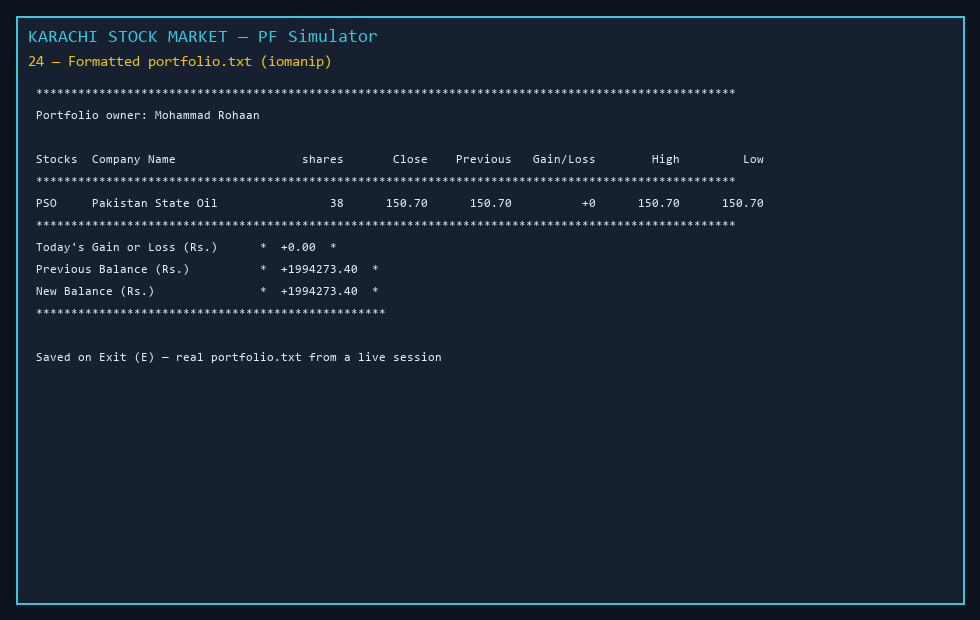
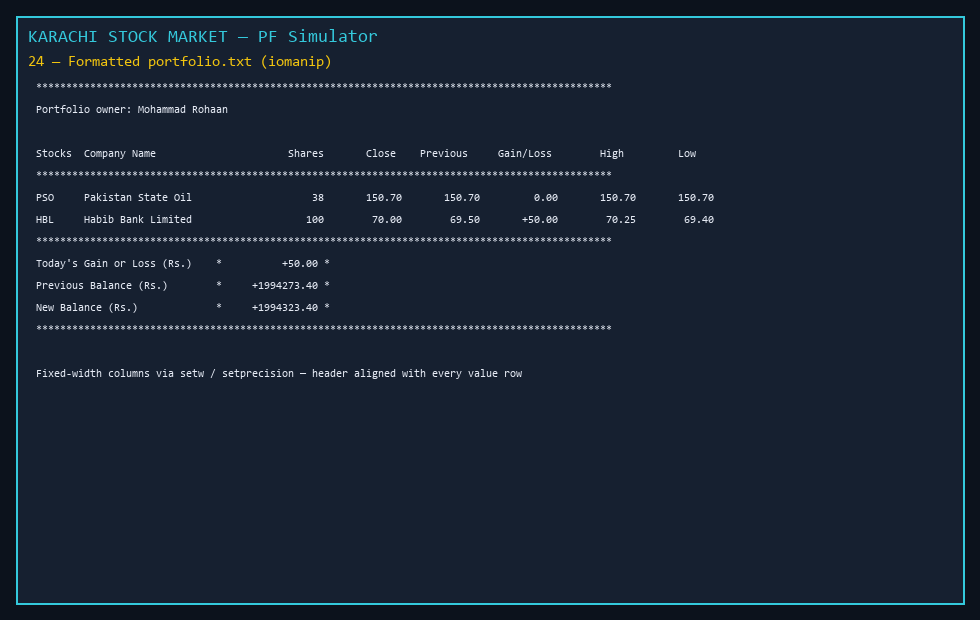
Fix portfolio.txt save alignment with fixed-width iomanip columns.

Changed region(s): [[0.0306, 0.2452, 0.7653, 0.6129], [0.0306, 0.1226, 0.7347, 0.2145]]

diff --git a/22i-2327_A_Project.cpp b/22i-2327_A_Project.cpp
@@ -17,6 +17,7 @@
 #include <fstream>
 #include <sstream>
 #include <iomanip>
+#include <string>
 #include <cstring>
 #include <ctime>
 #include <cstdlib>
@@ -30,6 +31,14 @@ using namespace std;
 #define SYM_LEN 16
 #define NAME_LEN 64
 #define OWNER_LEN 64
+
+/* Fixed column widths for portfolio.txt (header + every data row) */
+#define COL_SYM 8
+#define COL_NAME 32
+#define COL_SHARES 10
+#define COL_PRICE 12
+#define COL_GL 14
+#define PORTFOLIO_LINE_WIDTH (COL_SYM + COL_NAME + COL_SHARES + COL_PRICE * 4 + COL_GL)
 
 /* ---------- Console helpers (state passed in via HANDLE) ---------- */
 
@@ -137,10 +146,11 @@ bool saveCompanies(const char *filename,
     if (!fout.is_open())
         return false;
 
+    /* CSV required by brief — keep fields tidy: no extra spaces, price always 2 dp */
+    fout << fixed << setprecision(2);
     for (int i = 0; i < companyCount; i++)
     {
-        fout << symbols[i] << "," << names[i] << ","
-             << fixed << setprecision(2) << currPrice[i] << "\n";
+        fout << symbols[i] << "," << names[i] << "," << currPrice[i] << "\n";
     }
     fout.close();
     return true;
@@ -396,16 +406,14 @@ void drawPortfolio(HANDLE hConsole,
     cout << "Updates: Enter | Live Market: L | Add: A | Remove: R | Money: M | Withdraw: W\n";
     cout << "----------------------------------------------------------------------------------------\n";
 
-    cout << left
-         << setw(8) << "Stocks"
-         << setw(28) << "Company Name"
-         << right
-         << setw(8) << "Shares"
-         << setw(10) << "Current"
-         << setw(10) << "Previous"
-         << setw(12) << "Gain/Loss"
-         << setw(10) << "High"
-         << setw(10) << "Low" << endl;
+    cout << left << setw(COL_SYM) << "Stocks"
+         << left << setw(COL_NAME) << "Company Name"
+         << right << setw(COL_SHARES) << "Shares"
+         << right << setw(COL_PRICE) << "Current"
+         << right << setw(COL_PRICE) << "Previous"
+         << right << setw(COL_GL) << "Gain/Loss"
+         << right << setw(COL_PRICE) << "High"
+         << right << setw(COL_PRICE) << "Low" << endl;
     cout << "----------------------------------------------------------------------------------------\n";
 
     double todayGL = 0.0;
@@ -426,17 +434,17 @@ void drawPortfolio(HANDLE hConsole,
         double gl = (currPrice[idx] - prevPrice[idx]) * holdShares[h];
         todayGL += gl;
 
-        cout << left << setw(8) << symbols[idx]
-             << setw(28) << names[idx]
-             << right << setw(8) << holdShares[h]
+        cout << left << setw(COL_SYM) << symbols[idx]
+             << left << setw(COL_NAME) << names[idx]
+             << right << setw(COL_SHARES) << holdShares[h]
              << fixed << setprecision(2)
-             << setw(10) << currPrice[idx]
-             << setw(10) << prevPrice[idx]
+             << right << setw(COL_PRICE) << currPrice[idx]
+             << right << setw(COL_PRICE) << prevPrice[idx]
              << setw(1) << " ";
         printGainLossColored(hConsole, gl);
         cout << right << fixed << setprecision(2)
-             << setw(10) << highPrice[idx]
-             << setw(10) << lowPrice[idx] << endl;
+             << setw(COL_PRICE) << highPrice[idx]
+             << setw(COL_PRICE) << lowPrice[idx] << endl;
     }
 
     double previousBalance = balance;
@@ -677,6 +685,69 @@ void removeStock(char symbols[][SYM_LEN],
     _getch();
 }
 
+/* Write one money cell into a fixed-width field (optional leading +) */
+void writeAlignedMoney(ostream &out, double value, int width, bool showPlus)
+{
+    ostringstream cell;
+    cell << fixed << setprecision(2);
+    if (showPlus && value > 0.0001)
+        cell << "+";
+    cell << value;
+    out << right << setw(width) << cell.str();
+}
+
+void writePortfolioSeparator(ostream &out)
+{
+    out << setfill('*') << setw(PORTFOLIO_LINE_WIDTH) << "" << setfill(' ') << "\n";
+}
+
+void writePortfolioHeaderRow(ostream &out)
+{
+    out << left << setw(COL_SYM) << "Stocks"
+        << left << setw(COL_NAME) << "Company Name"
+        << right << setw(COL_SHARES) << "Shares"
+        << right << setw(COL_PRICE) << "Close"
+        << right << setw(COL_PRICE) << "Previous"
+        << right << setw(COL_GL) << "Gain/Loss"
+        << right << setw(COL_PRICE) << "High"
+        << right << setw(COL_PRICE) << "Low"
+        << "\n";
+}
+
+void writePortfolioDataRow(ostream &out,
+                           const char *symbol,
+                           const char *companyName,
+                           int shares,
+                           double closePrice,
+                           double previousPrice,
+                           double gainLoss,
+                           double high,
+                           double low)
+{
+    out << left << setw(COL_SYM) << symbol
+        << left << setw(COL_NAME) << companyName
+        << right << setw(COL_SHARES) << shares
+        << fixed << setprecision(2)
+        << right << setw(COL_PRICE) << closePrice
+        << right << setw(COL_PRICE) << previousPrice;
+    writeAlignedMoney(out, gainLoss, COL_GL, true);
+    out << fixed << setprecision(2)
+        << right << setw(COL_PRICE) << high
+        << right << setw(COL_PRICE) << low
+        << "\n";
+}
+
+void writePortfolioFooterLine(ostream &out, const char *label, double value)
+{
+    const int labelWidth = 30;
+    const int valueWidth = 16;
+    out << left << setw(labelWidth) << label
+        << " * "
+        << right;
+    writeAlignedMoney(out, value, valueWidth, true);
+    out << " *" << "\n";
+}
+
 bool savePortfolio(const char *filename,
                    const char *ownerName,
                    double balance,
@@ -701,19 +772,16 @@ bool savePortfolio(const char *filename,
     double previousBalance = balance;
     double newBalance = balance + todayGL;
 
-    fout << setfill('*') << setw(100) << "" << setfill(' ') << "\n";
+    writePortfolioSeparator(fout);
     fout << "Portfolio owner: " << ownerName << "\n\n";
-    fout << left
-         << setw(8) << "Stocks"
-         << setw(28) << "Company Name"
-         << right
-         << setw(8) << "shares"
-         << setw(12) << "Close"
-         << setw(12) << "Previous"
-         << setw(12) << "Gain/Loss"
-         << setw(12) << "High"
-         << setw(12) << "Low" << "\n";
-    fout << setfill('*') << setw(100) << "" << setfill(' ') << "\n";
+    writePortfolioHeaderRow(fout);
+    writePortfolioSeparator(fout);
+
+    if (holdCount == 0)
+    {
+        fout << left << setw(PORTFOLIO_LINE_WIDTH)
+             << "(No holdings in this session)" << "\n";
+    }
 
     for (int h = 0; h < holdCount; h++)
     {
@@ -721,36 +789,22 @@ bool savePortfolio(const char *filename,
         if (idx < 0)
             continue;
         double gl = (currPrice[idx] - prevPrice[idx]) * holdShares[h];
-
-        fout << left << setw(8) << symbols[idx]
-             << setw(28) << names[idx]
-             << right << setw(8) << holdShares[h]
-             << fixed << setprecision(2)
-             << setw(12) << currPrice[idx]
-             << setw(12) << prevPrice[idx];
-
-        fout << setw(12);
-        if (gl >= 0)
-            fout << ("+" + to_string((long long)llround(gl)));
-        else
-            fout << ((long long)llround(gl));
-
-        fout << fixed << setprecision(2)
-             << setw(12) << highPrice[idx]
-             << setw(12) << lowPrice[idx] << "\n";
+        writePortfolioDataRow(fout,
+                              symbols[idx],
+                              names[idx],
+                              holdShares[h],
+                              currPrice[idx],
+                              prevPrice[idx],
+                              gl,
+                              highPrice[idx],
+                              lowPrice[idx]);
     }
 
-    fout << setfill('*') << setw(100) << "" << setfill(' ') << "\n";
-    fout << left << setw(32) << "Today's Gain or Loss (Rs.)"
-         << "*\t" << showpos << fixed << setprecision(2) << todayGL
-         << noshowpos << "\t*" << "\n";
-    fout << left << setw(32) << "Previous Balance (Rs.)"
-         << "*\t" << showpos << fixed << setprecision(2) << previousBalance
-         << noshowpos << "\t*" << "\n";
-    fout << left << setw(32) << "New Balance (Rs.)"
-         << "*\t" << showpos << fixed << setprecision(2) << newBalance
-         << noshowpos << "\t*" << "\n";
-    fout << setfill('*') << setw(50) << "" << setfill(' ') << "\n";
+    writePortfolioSeparator(fout);
+    writePortfolioFooterLine(fout, "Today's Gain or Loss (Rs.)", todayGL);
+    writePortfolioFooterLine(fout, "Previous Balance (Rs.)", previousBalance);
+    writePortfolioFooterLine(fout, "New Balance (Rs.)", newBalance);
+    writePortfolioSeparator(fout);
 
     fout.close();
     return true;

diff --git a/docs/generate_screenshots.py b/docs/generate_screenshots.py
@@ -326,20 +326,21 @@ save(img, "23_name_entry.png")
 
 img, d = new_canvas("24 — Formatted portfolio.txt (iomanip)")
 draw_lines(d, [
-    "****************************************************************************************************",
+    "************************************************************************************************",
     "Portfolio owner: Mohammad Rohaan",
     "",
-    "Stocks  Company Name                  shares       Close    Previous   Gain/Loss        High         Low",
-    "****************************************************************************************************",
-    "PSO     Pakistan State Oil                38      150.70      150.70          +0      150.70      150.70",
-    "****************************************************************************************************",
-    "Today's Gain or Loss (Rs.)      *  +0.00  *",
-    "Previous Balance (Rs.)          *  +1994273.40  *",
-    "New Balance (Rs.)               *  +1994273.40  *",
-    "**************************************************",
+    "Stocks  Company Name                      Shares       Close    Previous     Gain/Loss        High         Low",
+    "************************************************************************************************",
+    "PSO     Pakistan State Oil                    38       150.70       150.70         0.00       150.70       150.70",
+    "HBL     Habib Bank Limited                   100        70.00        69.50       +50.00        70.25        69.40",
+    "************************************************************************************************",
+    "Today's Gain or Loss (Rs.)    *          +50.00 *",
+    "Previous Balance (Rs.)        *     +1994273.40 *",
+    "New Balance (Rs.)             *     +1994323.40 *",
+    "************************************************************************************************",
     "",
-    "Saved on Exit (E) — real portfolio.txt from a live session",
-], y=88, size=12)
+    "Fixed-width columns via setw / setprecision — header aligned with every value row",
+], y=82, size=11)
 save(img, "24_formatted_portfolio_file.png")
 
 img, d = new_canvas("25 — Multi-stock table (≥8 KSE names)")

diff --git a/README.md b/README.md
@@ -306,7 +306,7 @@ Portfolio asks for owner name once, then keeps it for the session and file save.
 
 ### SS24 — Formatted portfolio.txt (`iomanip`)
 
-Saved file from a live Exit (**E**) session — aligned columns (`setw`, `fixed`, `setprecision`) with owner, holdings, and balances.
+Saved file from Exit (**E**) — fixed-width columns so every heading lines up with its values (`setw` / `setprecision`).
 
 ![SS24 Formatted Portfolio File](docs/screenshots/24_formatted_portfolio_file.png)
 
@@ -434,7 +434,13 @@ Twelve KSE-like listings ship with the repo. On exit, **current** prices overwri
 
 ### `portfolio.txt` (written on exit)
 
-Formatted with `<iomanip>`: owner name, holdings columns (symbol, company, shares, curr, prev, G/L, high, low), today’s G/L, previous cash balance, and new balance. Sample layout: [`docs/portfolio-sample.txt`](docs/portfolio-sample.txt).
+Fixed-width table written with `<iomanip>` (`setw`, `left`/`right`, `fixed`, `setprecision(2)`):
+
+- Header and every data row use the **same column widths** (symbol, company, shares, close, previous, gain/loss, high, low)
+- Footer lines use a fixed label column + aligned money values (no tabs)
+- Separator lines match the full table width
+
+Sample: [`docs/portfolio-sample.txt`](docs/portfolio-sample.txt).
 
 ---
 
